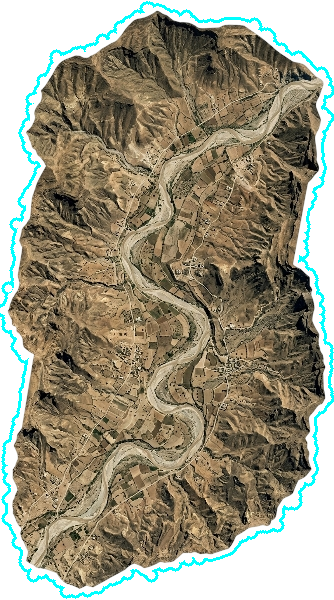
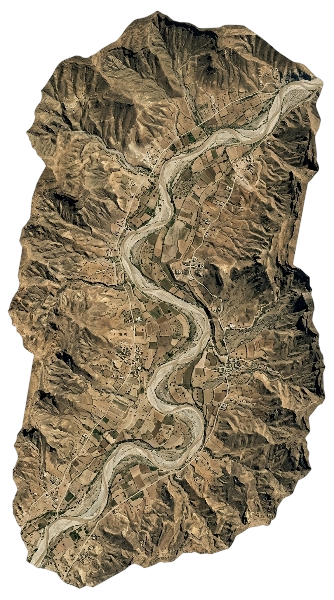
Process all 17 non-background assets with white offset stroke
Adds --stroke-color to halftone_stroke.py (cyan/white presets) since
this video's fingerprint changed from a cyan ring to white. Re-ran
bible/dry-valley/water-texture with white instead of their previous
cyan stroke, and ran the 14 new map/UI layers (map-base, four river
silhouettes, six region highlights, pin-marker, mountain-range,
depth-arrow) through the same pipeline: white 4px+3px offset ring, no
halftone, full original fill preserved. background.jpeg is untouched,
per instructions.

Claude-Session: https://claude.ai/code/session_01TWLUHvJd4hzLX2kjmk13r2

diff --git a/src/shared/halftone_stroke.py b/src/shared/halftone_stroke.py
@@ -31,6 +31,8 @@ DEFAULT_CELL_SIZE = 6
 DEFAULT_STROKE_OFFSET = 4
 DEFAULT_STROKE_WIDTH = 3
 CYAN = (0, 255, 255, 255)
+WHITE = (255, 255, 255, 255)
+STROKE_COLOR_PRESETS = {"cyan": CYAN, "white": WHITE}
 
 
 def _disk(radius: int) -> np.ndarray:
@@ -132,7 +134,14 @@ def main() -> int:
         action="store_true",
         help="Keep original full color instead of converting to halftone dots",
     )
+    parser.add_argument(
+        "--stroke-color",
+        choices=sorted(STROKE_COLOR_PRESETS),
+        default="cyan",
+        help="Color of the offset stroke ring",
+    )
     args = parser.parse_args()
+    stroke_color = STROKE_COLOR_PRESETS[args.stroke_color]
 
     args.output_dir.mkdir(parents=True, exist_ok=True)
 
@@ -147,6 +156,7 @@ def main() -> int:
                 cell_size=args.cell_size,
                 stroke_offset=args.stroke_offset,
                 stroke_width=args.stroke_width,
+                stroke_color=stroke_color,
                 apply_halftone=not args.no_halftone,
             )
             results.append((name, "ok", dst))